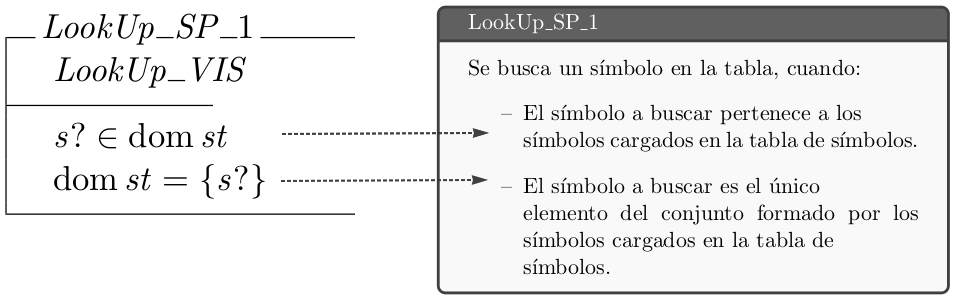
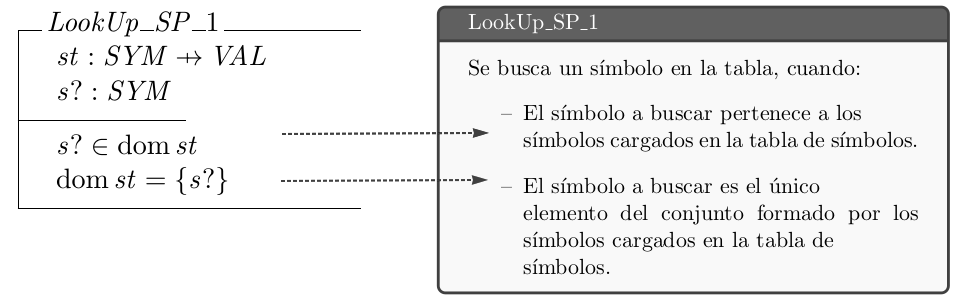
Modifico ejemplo de sección 4.1 para que sea consistente con los incluídos en el apéndice

Changed region(s): [[0.0, 0.0299, 0.3935, 0.7176]]

diff --git a/sec/corpus.tex b/sec/corpus.tex
@@ -19,10 +19,11 @@ En la figura~\ref{fig:ej_corpus} podemos observar uno de los ejemplos incluidos 
 \begin{itemize}
 \item \emph{Clase de prueba para operación LookUp}\\
 \begin{schema}{LookUp\_ SP\_ 1}\\
-  LookUp\_ VIS 
-  \where
-    s? \in \dom st \\
-    \dom st = \{ s? \}
+ st : SYM \pfun VAL \\
+ s? : SYM 
+\where
+ s? \in \dom st \\
+ \dom st = \{ s? \}
 \end{schema}
 
 \item \emph{Designaciones SymbolTable}\\
